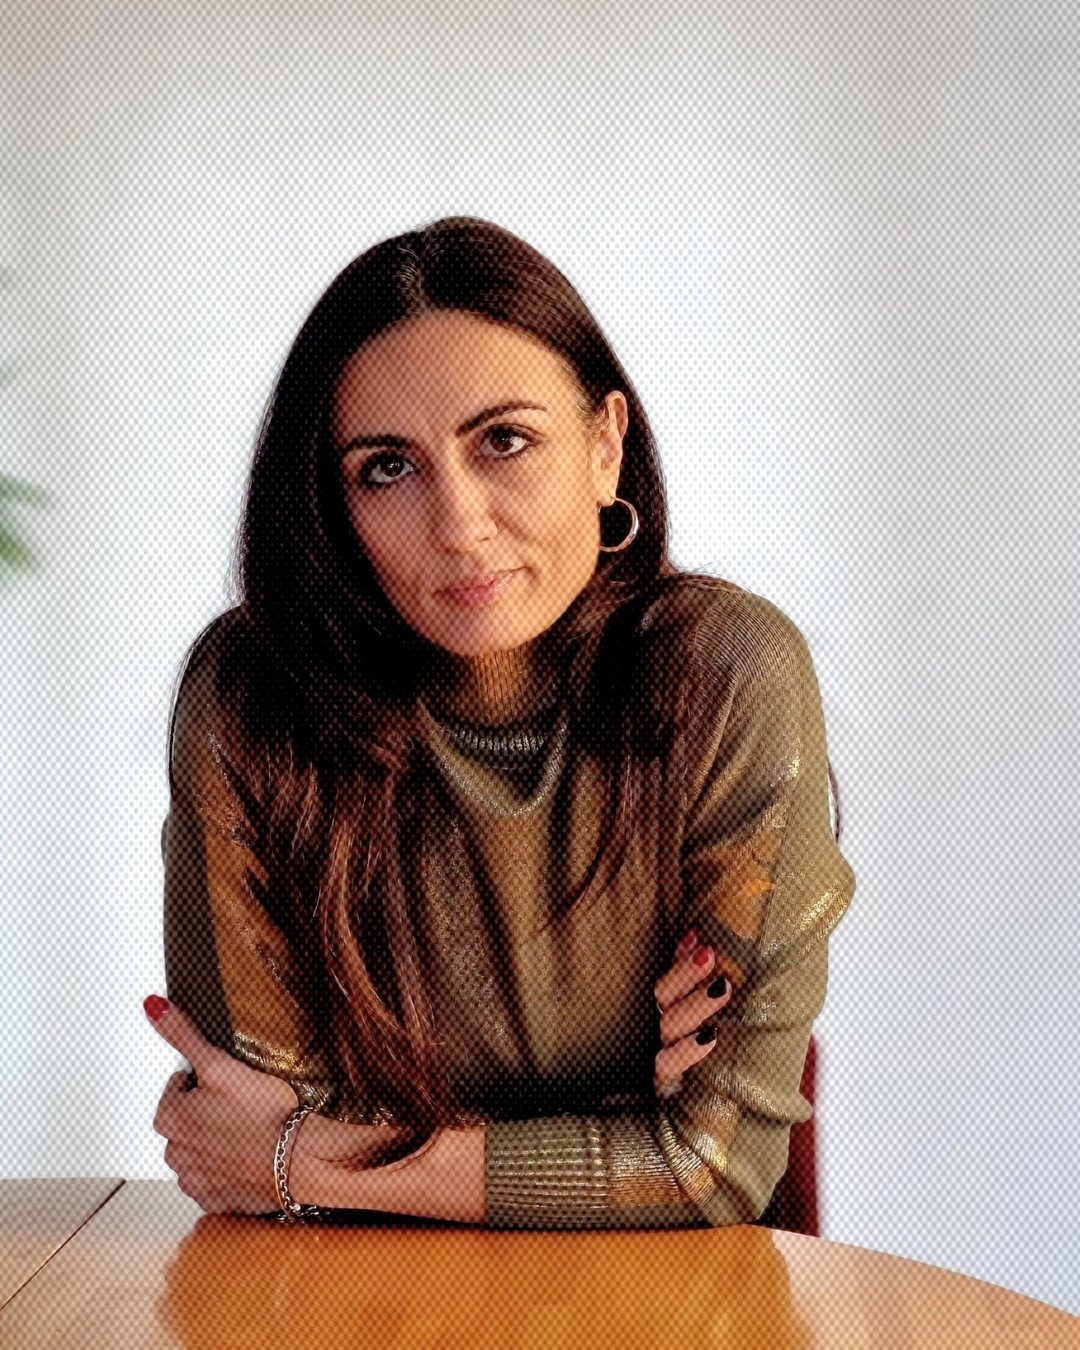
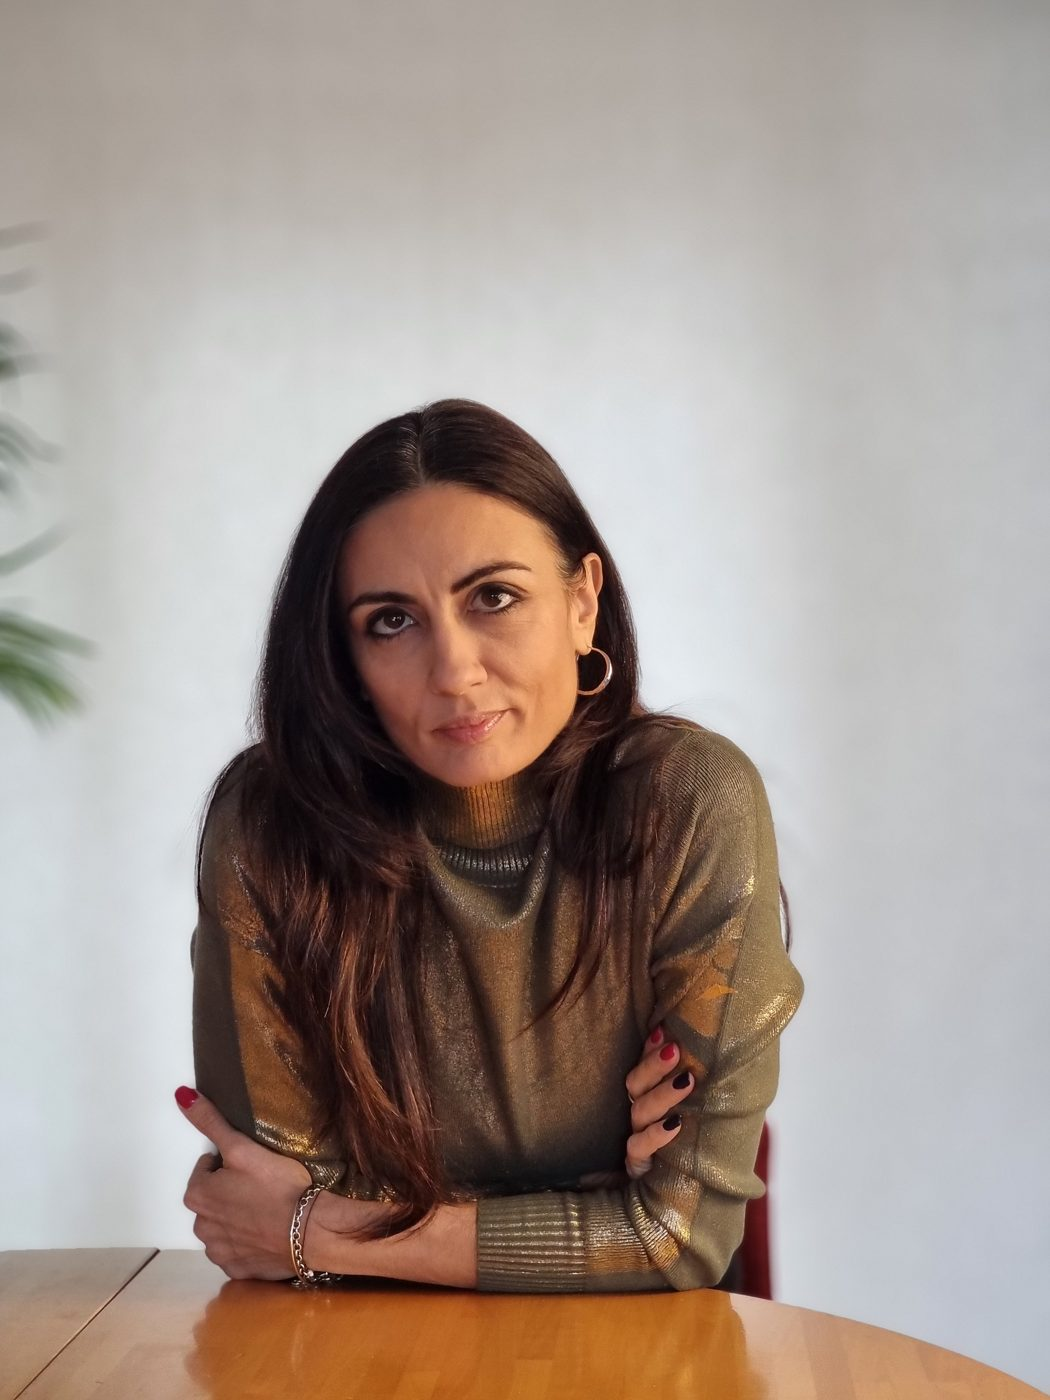
Swap Mompreneur hero and about portraits
Claude-Session: https://claude.ai/code/session_01TgkfVL7UjqBfi7nMTUzTsk

diff --git a/src/pages/Mompreneur.jsx b/src/pages/Mompreneur.jsx
@@ -91,7 +91,7 @@ export default function Mompreneur() {
           </ul>
         </div>
         <div className="mp-hero-img">
-          <img src="/images/mompreneur/hero.jpg" alt="Annalisa Cosentino, founder of Digital Twilight" width="1050" height="1400" />
+          <img src="/images/mompreneur/hero.jpg" alt="Annalisa Cosentino, founder of Digital Twilight, at a table with arms crossed" width="1080" height="1350" />
         </div>
       </header>
 
@@ -232,7 +232,7 @@ export default function Mompreneur() {
             Today I bring film, photography and graphic design together to help mompreneurs
             launch with a warm, personal approach.
           </p>
-          <img className="mp-about-img2" src="/images/mompreneur/about-portrait.jpg" alt="Annalisa Cosentino at a table, arms crossed" loading="lazy" width="1080" height="1350" />
+          <img className="mp-about-img2" src="/images/mompreneur/about-portrait.jpg" alt="Annalisa Cosentino, founder of Digital Twilight" loading="lazy" width="1050" height="1400" />
         </div>
       </section>
 
